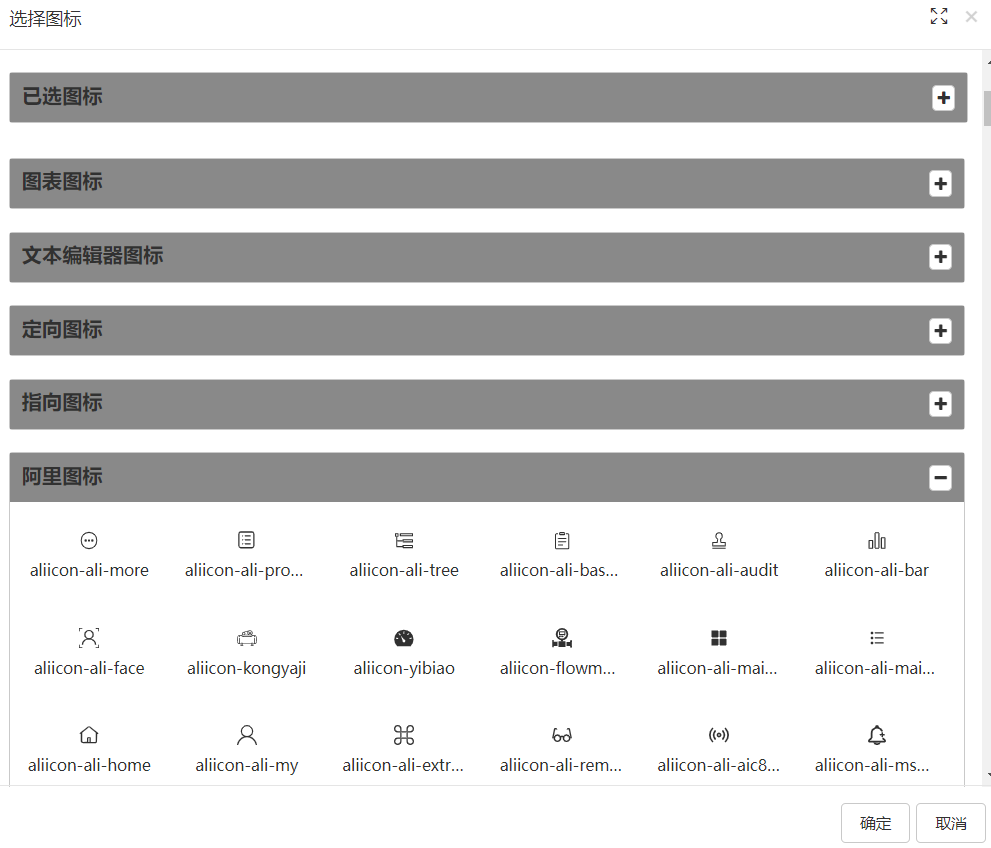
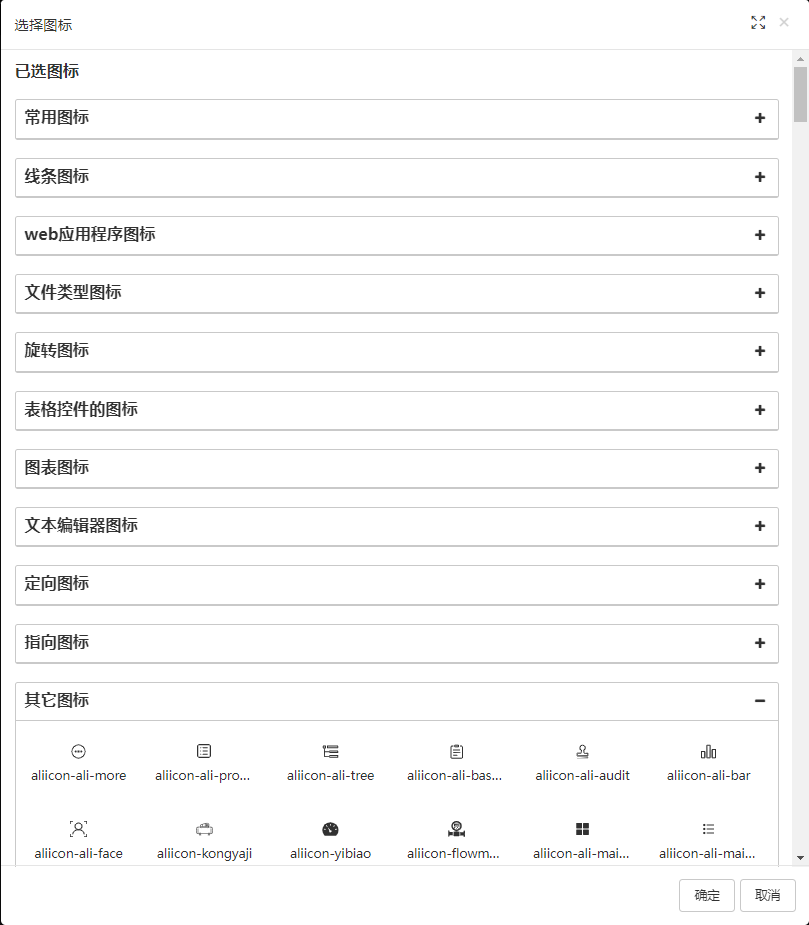
修改4.1.0发布说明，修改在线文档内容及图片为4.1.0

diff --git a/docs/系统配置手册/列表管理器/资产.md b/docs/系统配置手册/列表管理器/资产.md
@@ -62,3 +62,31 @@ import useBaseUrl from '@docusaurus/useBaseUrl';
 * 数据类型为文件、多选列表、Json字符串时，不支持选择外部属性
 
 * 在EOC和终端修改属性值，之后再看到的就是修改后的值，实际场景中设备的属性数据是会通过http、mqtt、CoAP、modbus等等设备连接协议进行传送的实时数据
+
+* 同时，不安装tb的情况下，也支持直接连接OPC-DA/UA-Server、MQTT
+
+  <img alt=" " src={useBaseUrl('docimg/opc4101.png')} />
+
+* 首先，在SMC中，需要勾选上外部数据服务，然后再进行部署
+
+  <img alt=" " src={useBaseUrl('docimg/opc4103.png')} />
+
+* 在SDC资产类别中，新建菜单里增加了新建数据源选项，点击可以选择新建OPC-DA/UA-Server、MQTT的数据源
+
+  <img alt=" " src={useBaseUrl('docimg/opc4102.png')} />
+
+* 以DA为例，在建完数据源之后，新建一个资产类别为OPCDAClient的资产，作为数据源，点开资产属性。假设使用了Matrikon OPC Server Simulation作为OPCServer，资产属性中Server的值就是来自此OPCServer
+
+  <img alt=" " src={useBaseUrl('docimg/opcda4102.png')} />
+
+* Run的值代表运行或停止，填1或0即可，Group是一个组，其中Name名称自定义，UpdateRate为刷新时间，单位为毫秒，Deadband为死区，值自定义值。这里是为了满足当点位很多并且每个点位数据变化的时间要求不一样时，能够很好的进行区分接收所做的配置。
+
+  <img alt=" " src={useBaseUrl('docimg/opcda4101.png')} />
+
+* 配置完数据源资产后，新建或选择某一个资产作为点位，打开其资产属性，勾选上外部属性，填上外部属性标签，其标签格式为外部源资产名.外部源资产属性中Group里的Name.opcda中点位的名称，如图，外部源资产名称为DA1，其资产属性Group里Name为g1，在opcda中的名称为test.test1，所以这里标签名为DA1.g1.test.test1
+
+  <img alt=" " src={useBaseUrl('docimg/opcda4103.png')} />
+
+* 配置完成后，系统中就可以读到数据，在资产总览中的属性趋势里，也可以看到趋势
+
+  <img alt=" " src={useBaseUrl('docimg/opcda4104.png')} />

diff --git a/docs/用户使用手册/网页端/系统日志.md b/docs/用户使用手册/网页端/系统日志.md
@@ -3,10 +3,10 @@ import useBaseUrl from '@docusaurus/useBaseUrl';
 
 系统日志页面可以查看使用系统时的各项操作的详细记录。
 
-<img alt=" " src={useBaseUrl('docimg/xitongrizhi.png')} />
+<img alt=" " src={useBaseUrl('docimg/xitongrizhi4101.png')} />
 
 * 视图
-  * 选择日志类型：分为网页同步、终端同步、修改资产属性和操作四种。
+  * 选择日志类型：分为网页登录、API登录、系统管理中心登录、解决方案开发中心登录、终端同步、修改资产属性、操作和访问日志。
   * 选择操作人员：点击可筛选只看某一人员相关的系统日志。
   * 时间：选择查看开始时间到结束时间中的系统日志。
   * 导出：将当前所有的系统日志导出成excel表格。
@@ -19,6 +19,10 @@ import useBaseUrl from '@docusaurus/useBaseUrl';
   * 操作类型：执行操作时的类型，如“物料-保存”，“供应商-删除”。
   * 日志描述：
     * 日志类型为终端同步时，日志描述为终端名+终端ID。
-    * 日志类型为网页同步时，日志描述为浏览器名和版本。
+    * 日志类型为网页登录时，日志描述为浏览器名和版本。
     * 日志类型为操作时，日志描述为操作内容。
     * 日志类型为修改资产属性时，日志描述为相关信息。
+    * 日志类型为API登录时，日志描述为相关信息。
+    * 日志类型为系统管理中心登录时，日志描述为相关信息。
+    * 日志类型为解决方案开发中心登录时，日志描述为相关信息。
+    * 日志类型为访问日志时，日志描述为相关api调用信息。

diff --git a/docs/用户使用手册/网页端/系统扩展管理.md b/docs/用户使用手册/网页端/系统扩展管理.md
@@ -3,12 +3,28 @@ import useBaseUrl from '@docusaurus/useBaseUrl';
 
 系统扩展管理用于配置客户自定义报表、终端自定义查询、自定义KPI、终端自定义页面和内置报表自定义列。
 
-<img alt=" " src={useBaseUrl('docimg/xitongkuozhanguanli.png')} />
+<img alt=" " src={useBaseUrl('docimg/xitongkuozhanguanli4101.png')} />
 
 * 概要信息
   * 系统扩展名：扩展的名称。
   * 扩展类型：选择属于哪个类型的扩展。
   * 其他配置：对于该项扩展的其他配置。
   * 扩展包文件：管理扩展时，可选择本地文件上传。
+
+* 所有内置的报表、库存等，都可以在系统扩展管理中，配置为自定义报表。在个性设置中可以为其设置不同的隐藏列和列的显示名，从而区别于原内置报表，实现不同场景下的需求。
+
+* 以物料表为例：
+
+  <img alt=" " src={useBaseUrl('docimg/eockuozhan4101.png')} />
+
+  <img alt=" " src={useBaseUrl('docimg/eockuozhan4102.png')} />
+
+  <img alt=" " src={useBaseUrl('docimg/eockuozhan4103.png')} />
+
+* 同时，自定义报表和终端自定义查询中，也增加了内置扩展、项目扩展和实例，将一些需要配置的功能内置在系统中，需要添加时直接选择即可。
+
+  <img alt=" " src={useBaseUrl('docimg/xitongkuozhanguanli4102.png')} />
+
+  <img alt=" " src={useBaseUrl('docimg/xitongkuozhanguanli4103.png')} />
 
 * 完成相应配置后，选择添加即可，如要修改，选择编辑或删除。

diff --git a/docs/用户使用手册/网页端/排班表.md b/docs/用户使用手册/网页端/排班表.md
@@ -3,7 +3,7 @@ import useBaseUrl from '@docusaurus/useBaseUrl';
 
 排班就是安排具体部门具体人的上班时间，排班表中可以进行这些操作并查看目前所安排的用于流程中的排班。
 
-<img alt=" " src={useBaseUrl('docimg/paibanbiao11.png')} />
+<img alt=" " src={useBaseUrl('docimg/paiban4101.png')} />
 
 * 概要信息
   * 已创建排班表：完成编辑后确定保存的排班表，点击选中后即可在右侧时间栏查看和编辑排班。
@@ -42,7 +42,7 @@ import useBaseUrl from '@docusaurus/useBaseUrl';
 
 <img alt=" " src={useBaseUrl('docimg/lunbanpaiban1.png')} />
 
-* 自4.0.4版本起，排班表支持导入数据。首先提供了可导入的模板，在模板中进行编辑后，选择一个已创建的排班表，点击导入数据即可。
+* 排班表支持导入数据。首先提供了可导入的模板，在模板中进行编辑后，选择一个已创建的排班表，点击导入数据即可。
 
   <img alt=" " src={useBaseUrl('docimg/paibandaoru1.png')} />
 
@@ -53,3 +53,7 @@ import useBaseUrl from '@docusaurus/useBaseUrl';
   <img alt=" " src={useBaseUrl('docimg/paibandaoru3.png')} />
 
   <img alt=" " src={useBaseUrl('docimg/paibandaoru4.png')} />
+
+* 支持将当前视图内当前时间后的所有排班批量删除。如图选择为周视图，点击批量删除，删除的是此周中所有开始时间大于当前时间的排班。
+
+  <img alt=" " src={useBaseUrl('docimg/eocpaiban4101.png')} />

diff --git a/docs/用户使用手册/网页端/库存.md b/docs/用户使用手册/网页端/库存.md
@@ -84,19 +84,19 @@ import useBaseUrl from '@docusaurus/useBaseUrl';
 
     * 点击新增，则是单个存储区域多个物料的库操作，点击新增一组，就可以新增加一组包括选择存储区域的库操作。
 
-      <img alt=" " src={useBaseUrl('docimg/zuoyezuweihu40451.png')} />
+      <img alt=" " src={useBaseUrl('docimg/kucun4051.png')} />
 
     * 全部库操作配置完后点击确定，即可完成多个区域的库操作，在库存条目表中，也会相应的添加库操作数据。
 
-      <img alt=" " src={useBaseUrl('docimg/zuoyezuweihu40452.png')} />
+      <img alt=" " src={useBaseUrl('docimg/kucun4052.png')} />
 
     * 导入数据的方式则是下载模板后，在模板文件中的目标存储区域列可以是多个区域，在excel中把数据配置好后选择导入数据点确定即可。
 
-      <img alt=" " src={useBaseUrl('docimg/zuoyezuweihu40453.png')} />
+      <img alt=" " src={useBaseUrl('docimg/kucun4053.png')} />
 
     * 作业组属性库操作不支持多存储区域。
 
-      <img alt=" " src={useBaseUrl('docimg/zuoyezuweihu40454.png')} />
+      <img alt=" " src={useBaseUrl('docimg/kucun4054.png')} />
 
 * 库操作各类型的信息中，前方标红星的，在模板中也必须要正确填写才可以。
 

diff --git a/docs/发布说明/4.1.0发布说明.md b/docs/发布说明/4.1.0发布说明.md
@@ -1,7 +1,7 @@
 
 import useBaseUrl from '@docusaurus/useBaseUrl';
 
-发布时间：待发布
+发布时间：2021-07-29
 
 ## 增加的功能
 
@@ -205,7 +205,7 @@ import useBaseUrl from '@docusaurus/useBaseUrl';
 
   <img alt=" " src={useBaseUrl('docimg/opc4102.png')} />
 
-* 以DA为例，在建完数据源之后，新建一个资产类别为OPCDAClient的资产，作为数据源，点开资产属性。假设使用了Matrikon OPC Server Simulation作为OPCServer，资产属性中Server的值来自OPCServer
+* 以DA为例，在建完数据源之后，新建一个资产类别为OPCDAClient的资产，作为数据源，点开资产属性。假设使用了Matrikon OPC Server Simulation作为OPCServer，资产属性中Server的值就是来自此OPCServer
 
   <img alt=" " src={useBaseUrl('docimg/opcda4102.png')} />
 
@@ -952,7 +952,7 @@ return true;
 
 ### PBIN3602：重构网页端图标选择对话框，同时增加更多的图标
 
-* 重构了EOC上选择图标的对话框，对图标进行了详细的分类，更改了排列方式，并增加阿里图标。
+* 重构了EOC上选择图标的对话框，对图标进行了详细的分类，更改了排列方式，并增加了更多的图标。
 
   <img alt=" " src={useBaseUrl('docimg/eoctubiao4051.png')} />
 

diff --git a/docs/系统配置手册/流程管理器/流程管理器.md b/docs/系统配置手册/流程管理器/流程管理器.md
@@ -224,12 +224,19 @@ import useBaseUrl from '@docusaurus/useBaseUrl';
 
 * 在**业务规则**中如下属性：
 
-  <img alt=" " src={useBaseUrl('docimg/业务规则1.png')} />
+  <img alt=" " src={useBaseUrl('docimg/流程管理器4101.png')} />
 
   * **活动结束事件**：为该执行活动结束时配置事件
-  * **超时(分钟)**：设置该执行活动超时的时长。
+  * **插入函数**：流程后函数的向导，在流程活动属性中点击插入函数
+  * **超时(分钟)**：设置该执行活动超时的时长
+  * **周期发送消息**：周期发送该活动的消息提醒
   * **共同执行人**：勾上此项，终端执行作业组后会提示添加共同执行人
-  * **完成百分比（%）**：设置该执行活动的完成百分比。
+  * **完成百分比（%）**：设置该执行活动的完成百分比
+
+* 在流程活动属性中点击插入函数，可以选择要用到的流程函数，支持直接搜索，并且也对函数进行了分类，点击函数会有简单的说明。关联了在线文档，查看详细说明点击在线帮助即可。
+
+  <img alt=" " src={useBaseUrl('docimg/lchhs40451.png')} />
+
 
 ### 配置条件活动块的表达式
 

diff --git a/docs/系统配置手册/作业管理器/作业组.md b/docs/系统配置手册/作业管理器/作业组.md
@@ -9,7 +9,7 @@ import useBaseUrl from '@docusaurus/useBaseUrl';
 
 * 同时，属性栏出现该作业组的属性对话框。
 
-  <img alt=" " src={useBaseUrl('docimg/作业组对话框.jpg')} />
+  <img alt=" " src={useBaseUrl('docimg/作业组对话框4101.png')} />
 
 ## 配置作业组通用属性
 
@@ -120,7 +120,7 @@ import useBaseUrl from '@docusaurus/useBaseUrl';
   * **工程单位** - 当数据类型为**数值**时，定义值对应的单位
   * **更多设置** - 关于当前属性值的更多基本设置项，如图
 
-    <img alt=" " src={useBaseUrl('docimg/属性值更多设置.jpg')} />
+    <img alt=" " src={useBaseUrl('docimg/作业组属性更多设置4101.png')} />
   
   * **终端同步** - 当前属性值是否同步到终端
   * **计划、创建、执行、审核** - 各流程活动节点对该作业组属性的状态，可以设置**可查看、可修改、可修改且必填、新建、新建且必填、不可见**几种状态。

diff --git a/docs/用户使用手册/网页端/作业组维护.md b/docs/用户使用手册/网页端/作业组维护.md
@@ -5,7 +5,7 @@ import useBaseUrl from '@docusaurus/useBaseUrl';
 
 <img alt=" " src={useBaseUrl('docimg/zuoyezuweihu.png')} />
 
-* 在作业组维护中，可以选择需要删除或者导出未归档的作业组。使用筛选栏筛选，选择创建或者计划的作业组。在时间栏选择相应的起始时间。并可以在搜索栏中输入需要搜索的作业组进行精确搜索。
+* 在作业组维护中，可以选择需要删除或者导出未归档的作业组。使用筛选栏筛选，选择创建或者计划的作业组。在时间栏选择相应的起始时间。并可以在搜索栏中输入需要搜索的作业组关键字进行模糊搜索。
 * 点击导出时，导出的是列表中所有的作业组。
 * 删除作业组时，会弹出窗口，可勾选是否同步删除作业组关联的任务，不勾选则只删除该作业组。
 

diff --git a/docs/用户使用手册/终端/通知.md b/docs/用户使用手册/终端/通知.md
@@ -7,6 +7,6 @@ import useBaseUrl from '@docusaurus/useBaseUrl';
 
 * 登录后第一次、及后续定时去查询。定时周期缺省为300s ，终端可以设置，但不建议调得太小
 
-  <img alt=" " src={useBaseUrl('docimg/zhongduanpeizhi4043.png')} />
+  <img alt=" " src={useBaseUrl('docimg/zhongduanpeizhi4101.png')} />
 
 * 而通知栏的通知机制则完全不一样，通知栏通知是用户消息订阅后（且通知方式选中了 移动终端），服务端主动推送到终端的。通知机制的消息管道使用第三方通信服务以及终端对通知栏支持和管理实现。可以禁止通知，且不用的机型，os的不同版本都将导致一些状态栏通知的表现不一致。

diff --git a/docs/用户使用手册/网页端/数据导入.md b/docs/用户使用手册/网页端/数据导入.md
@@ -2,7 +2,7 @@ import useBaseUrl from '@docusaurus/useBaseUrl';
 
 * 数据导入功能支持直接将本地excel文件导入，并且提供文件模板，可以在导入前下载相应数据类型的模板文件，根据模板文件来填写数据。可导入的数据包括库存相关、资质和用户资源。在此页面也支持导出相应的数据文件。导入时要注意文件中信息与导入的数据类型中的保持一致。
 
-  <img alt=" " src={useBaseUrl('docimg/shujudaoru4051.png')} />
+  <img alt=" " src={useBaseUrl('docimg/shujudaoru4101.png')} />
 
 * 概要信息
   * 导入人：进行导入操作的人。

diff --git a/docs/用户使用手册/网页端/作业树.md b/docs/用户使用手册/网页端/作业树.md
@@ -23,7 +23,7 @@ import useBaseUrl from '@docusaurus/useBaseUrl';
 
    <img alt=" " src={useBaseUrl('docimg/zuoyeshudaochupdf2.png')} />
 
-* 启用了表单模式的情况下，作业树页面不显示作业项数和例外作业项数的柱状图、图片和作业树，显示状态为可查看的作业组属性
+* 如果此作业组在SDC中的配置为启用了表单模式的情况下，作业树页面不显示作业项数和例外作业项数的柱状图、图片和作业树，显示状态为可查看的作业组属性
 
   <img alt=" " src={useBaseUrl('docimg/biaodan4053.png')} />
   
